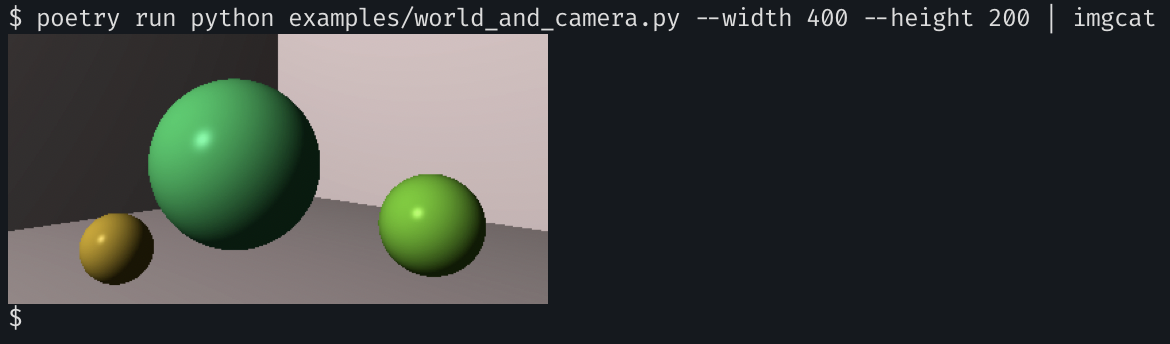
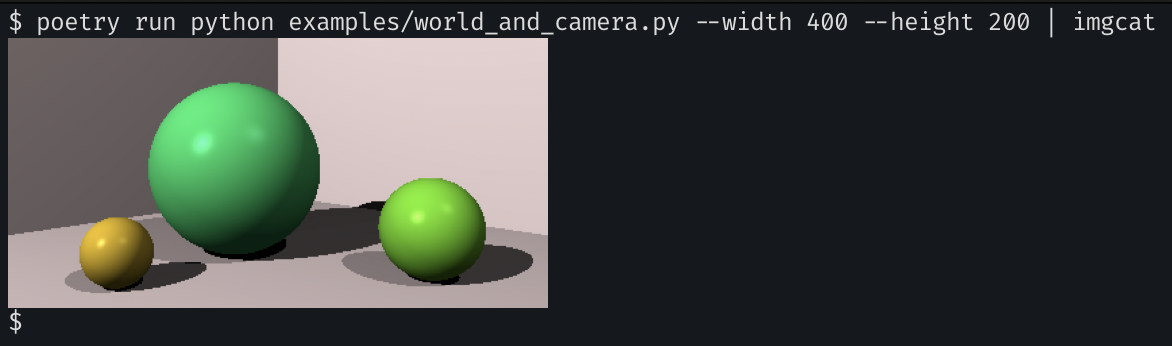
Implement shadows

Changed region(s): [[0.0, 0.0, 0.9846, 0.9593]]

diff --git a/pytracer/world.py b/pytracer/world.py
@@ -8,6 +8,7 @@ from .matrix import Matrix
 from .primitives import Point, Vector3
 from .ray import Intersection, Ray
 from .sphere import Sphere
+from .utils import EPSILON
 
 
 @dataclass
@@ -22,6 +23,18 @@ class World:
             return Color(0, 0, 0)
         comps = self.prepare_computations(hit, ray)
         return self.shade_hit(comps)
+
+    def is_shadowed(self, point: Point, light: PointLight) -> bool:
+        v = light.position - point
+        distance = v.magnitude
+        direction = v.normalize()
+
+        r = Ray(point, direction)
+        intersections = self.intersect(r)
+        h = Intersection.hit(intersections)
+        if h and h.t < distance:
+            return True
+        return False
 
     def intersect(self, ray: Ray) -> list[Intersection]:
         """Returns list of Intersections sorted by t"""
@@ -45,6 +58,7 @@ class World:
             t=intersection.t,
             shape=intersection.shape,
             position=position,
+            over_point=position + normalv * EPSILON,
             eyev=eyev,
             normalv=normalv,
             inside=inside,
@@ -54,8 +68,10 @@ class World:
         """Computes color for each light and return the sum"""
         color = Color(0, 0, 0)
         for light in self.lights:
+            is_shadowed = self.is_shadowed(comps.over_point, light)
+
             color += comps.shape.material.lighting(
-                light, comps.position, comps.eyev, comps.normalv
+                light, comps.position, comps.eyev, comps.normalv, in_shadow=is_shadowed
             )
 
         return color
@@ -82,6 +98,7 @@ class Comps:
     t: float
     shape: Sphere
     position: Point
+    over_point: Point
     eyev: Vector3
     normalv: Vector3
     inside: bool = False

diff --git a/tests/test_world.py b/tests/test_world.py
@@ -1,3 +1,5 @@
+from copy import copy
+
 from pytracer import (
     Color,
     Intersection,
@@ -162,3 +164,38 @@ def test_an_arbitrary_view_transformation():
     )
     assert_matrix_approx_equal(t, expected)
     assert_matrix_approx_equal(t, expected)
+
+
+def test_no_shadow_when_nothing_is_collinear_between_point_and_light(world: World):
+    p = Point(0, 10, 0)
+    assert world.is_shadowed(p, world.lights[0]) is False
+
+
+def test_shadowed_when_obj_is_between_point_and_light(world: World):
+    p = Point(10, -10, 10)
+    assert world.is_shadowed(p, world.lights[0]) is True
+
+
+def test_no_shadow_when_obj_is_behind_the_light(world: World):
+    p = Point(-20, 20, -20)
+    assert world.is_shadowed(p, world.lights[0]) is False
+
+
+def test_no_shadow_when_obj_is_behind_the_point(world: World):
+    p = Point(-2, 2, -2)
+    assert world.is_shadowed(p, world.lights[0]) is False
+
+
+def test_shade_hit_given_an_intersection_in_shadow(world: World):
+    world.lights = [PointLight(Point(0, 0, -10))]
+
+    s1 = world.shapes[0]
+    s2 = copy(s1)
+    s2.material.color = Color(1, 1, 1)
+    s2.transform = Matrix.translation(0, 0, 10)
+    world.shapes.append(s2)
+    r = Ray(Point(0, 0, 5), Vector3(0, 0, 1))
+    i = Intersection(4, s2)
+    comps = world.prepare_computations(i, r)
+    color = world.shade_hit(comps)
+    assert color == Color(0.1, 0.1, 0.1)

diff --git a/tests/test_ray.py b/tests/test_ray.py
@@ -1,7 +1,8 @@
 import pytest
 
-from pytracer import Matrix, Point, Ray, Sphere, Vector3
+from pytracer import Matrix, Point, Ray, Sphere, Vector3, World
 from pytracer.ray import Intersection
+from pytracer.utils import EPSILON
 
 
 def test_creating_and_querying_a_ray():
@@ -118,3 +119,12 @@ def test_intersecting_a_translated_sphere_with_a_ray():
     s.transform = Matrix.translation(5, 0, 0)
     xs = r.intersects(s)
     assert len(xs) == 0
+
+
+def test_the_hit_should_offset_the_point(sphere):
+    r = Ray(Point(0, 0, -5), Vector3(0, 0, 1))
+    sphere.transform = Matrix.translation(0, 0, 1)
+    i = Intersection(5, sphere)
+    comps = World.prepare_computations(i, r)
+    assert comps.over_point.z < -EPSILON / 2
+    assert comps.position.z > comps.over_point.z

diff --git a/tests/test_material.py b/tests/test_material.py
@@ -1,6 +1,5 @@
 from math import sqrt
 
-
 from pytracer import Color, Material, Point, Vector3
 from pytracer.light import PointLight
 
@@ -78,3 +77,14 @@ def test_light_behind_material(material: Material):
     expected_color_val = material.ambient
 
     assert result == Color(expected_color_val, expected_color_val, expected_color_val)
+
+
+def test_lighting_with_the_surface_in_shadow(material: Material):
+    position = Point(0, 0, 0)
+    eyev = Vector3(0, 0, -1)
+    normalv = Vector3(0, 0, -1)
+    light = PointLight(Point(0, 0, -10))
+
+    result = material.lighting(light, position, eyev, normalv, in_shadow=True)
+
+    assert result == Color(0.1, 0.1, 0.1)

diff --git a/pytracer/materials.py b/pytracer/materials.py
@@ -28,6 +28,7 @@ class Material:
         position: Point,
         eye_vector: Vector3,
         normal_vector: Vector3,
+        in_shadow: bool = False,
     ) -> Color:
         # combine surface color with light intensity
         effective_color = self.color * light.intensity
@@ -37,6 +38,8 @@ class Material:
 
         # calculate the ambient contribution
         ambient = effective_color * self.ambient
+        if in_shadow:
+            return ambient
 
         # represents the cos of the angle between the
         # normal vector and the light vector. Negative

diff --git a/examples/world_and_camera.py b/examples/world_and_camera.py
@@ -67,7 +67,13 @@ def build_shapes():
 
 
 def build_world():
-    return World(shapes=build_shapes(), lights=[PointLight(Point(-10, 10, -10))])
+    return World(
+        shapes=build_shapes(),
+        lights=[
+            PointLight(Point(-10, 10, -10)),
+            PointLight(Point(8, 15, -10), intensity=Color(0.3, 0.3, 0.3)),
+        ],
+    )
 
 
 def build_camera(width, height):
